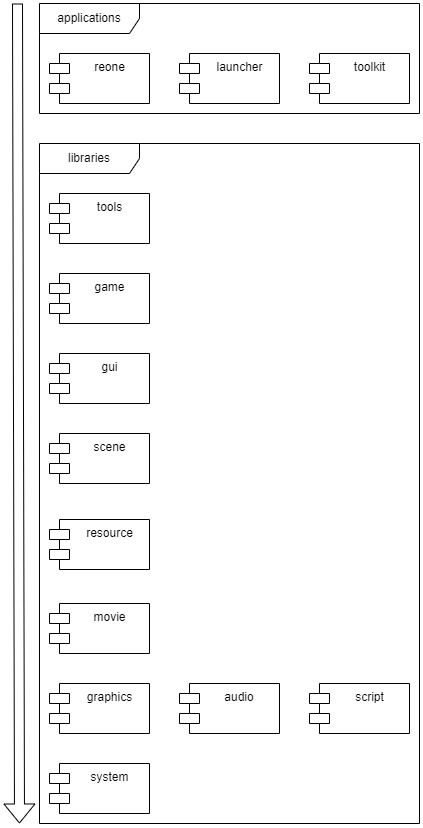
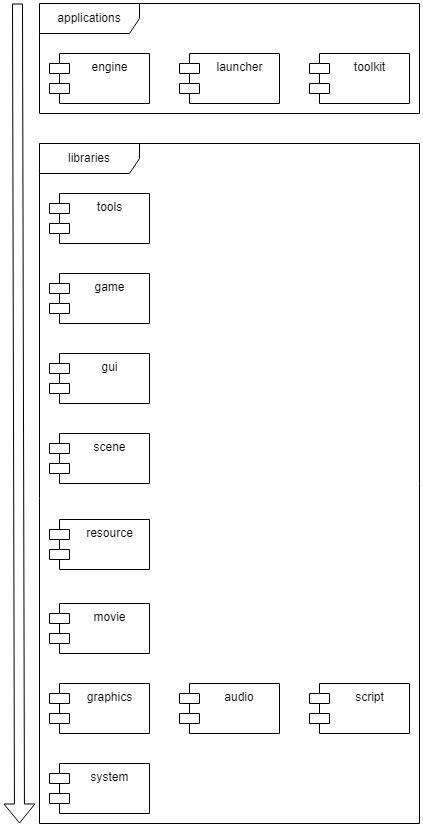
Rename reone app to engine

diff --git a/src/apps/launcher/frame.cpp b/src/apps/launcher/frame.cpp
@@ -388,7 +388,7 @@ void LauncherFrame::LoadConfiguration() {
 void LauncherFrame::OnLaunch(wxCommandEvent &event) {
     SaveConfiguration();
 
-    std::string exe("reone");
+    std::string exe("engine");
 #ifndef _WIN32
     exe.insert(0, "./");
 #endif

diff --git a/src/apps/engine/main.cpp b/src/apps/engine/main.cpp
@@ -30,7 +30,7 @@
 using namespace reone;
 using namespace reone::graphics;
 
-static constexpr char kLogFilename[] = "reone.log";
+static constexpr char kLogFilename[] = "engine.log";
 
 int main(int argc, char **argv) {
 #ifdef _WIN32
